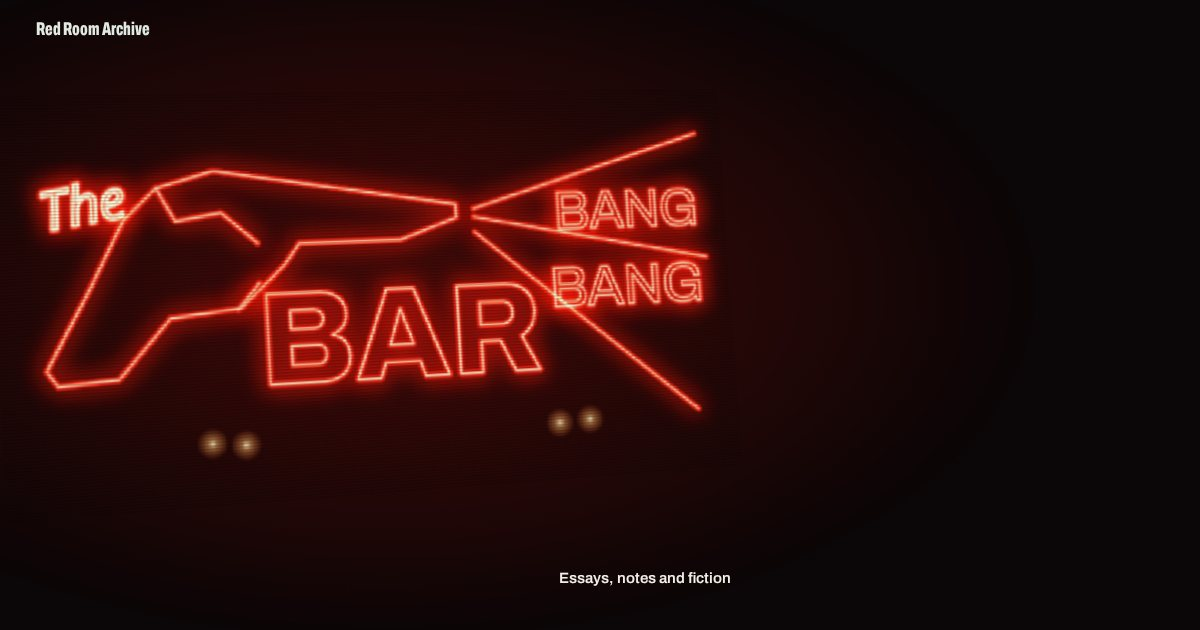
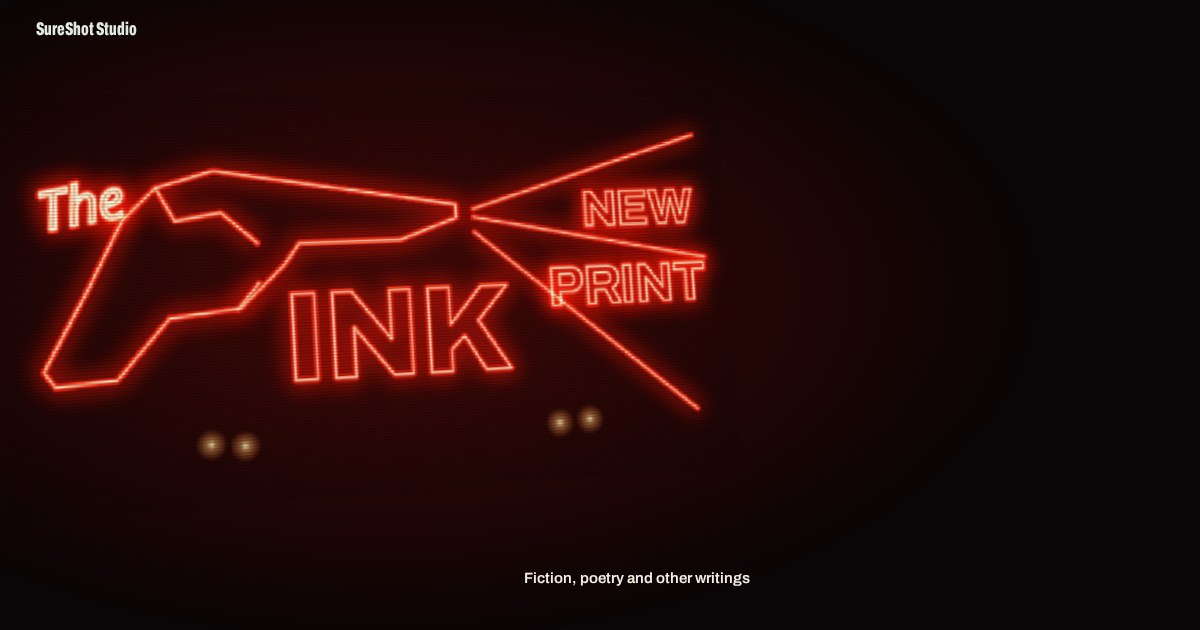
首页招牌改为 The INK / NEW / PRINT，招牌右侧新增新书付印·预购告示
- neon.ts：BAR → INK，两个 BANG → NEW / PRINT（位置、字号按方案 A 设计稿；手枪轮廓、射线、灯泡与闪烁节奏不变）
- site.ts announce（中英文）→ getHome → HomeView：招牌右侧小告示（宽屏右 3 列，<1024px 落到招牌下方），链接写信到站点邮箱（主题“预购小说集”/“Pre-order”），无邮箱时链到“更多”；title 为空即隐藏
- 告示随开场动画画出红竖线、逐行亮出；红点像招牌一样偶尔闪一下，减少动态效果时静止
- 分享卡 og/card.jpg 换成新招牌截图（原图仍是 BAR/BANG 与旧站名）
- UI 测试：告示在首屏、不压信息栏和导航、链接为带主题的 mailto；无 JS 时仍可见

diff --git a/src/ui/styles/home.css b/src/ui/styles/home.css
@@ -26,6 +26,28 @@
 .meta span { min-width: 0; overflow-wrap: anywhere; }
 .meta span:last-child { flex-shrink: 0; }
 
+/* 首屏告示：招牌右侧的一块小牌子（新书付印、接受预购）。细红竖线 + 小字标签 + 一句粗体 +
+   一盏常亮的红灯，和招牌一样偶尔闪一下。宽屏站在右 3 列，窄屏落到招牌下方。 */
+#home { grid-template-rows: 1fr auto; }
+.notice { grid-column: 10 / 13; grid-row: 1; align-self: end; position: relative; z-index: 6; min-width: 0;
+  margin-bottom: clamp(48px, 23svh, 240px); padding: 2px 0 4px 20px; }
+.notice::before { content: ""; position: absolute; left: 0; top: 0; bottom: 0; width: 1px; background: rgba(255, 58, 38, .55); transform: scaleY(var(--rule, 1)); transform-origin: top; }
+.notice-k { font-size: 11px; font-weight: 600; letter-spacing: .08em; text-transform: uppercase; opacity: .55; }
+.notice-t { margin-top: 10px; font-size: clamp(1.2rem, 1.55vw, 1.6rem); font-weight: 700; line-height: 1.3; text-wrap: balance; }
+.notice-a { display: inline-flex; align-items: baseline; gap: .55em; margin-top: 14px; font-size: 13px; font-weight: 600; line-height: 1.4; opacity: .86; transition: opacity .3s, color .3s; }
+.notice-a .dot { flex: none; align-self: center; width: 6px; height: 6px; border-radius: 50%; background: #ff3a26;
+  box-shadow: 0 0 6px rgba(255, 40, 20, .95), 0 0 14px rgba(255, 40, 20, .5); animation: notice-hum 5.2s steps(1, end) infinite; }
+.notice-l { position: relative; }
+.notice-l::after { content: ""; position: absolute; left: 0; right: 0; bottom: -2px; height: 1px; background: currentColor; transform: scaleX(0); transform-origin: left; transition: transform .5s var(--ease); }
+.notice-a .arr { transition: transform .45s var(--ease); }
+.notice-a:hover, .notice-a:focus-visible { opacity: 1; color: var(--accent-soft); }
+.notice-a:hover .notice-l::after, .notice-a:focus-visible .notice-l::after { transform: scaleX(1); }
+.notice-a:hover .arr, .notice-a:focus-visible .arr { transform: translateX(4px); }
+@keyframes notice-hum { 0%, 84%, 89%, 100% { opacity: 1; } 86% { opacity: .2; } 91% { opacity: .4; } }
+@media (max-width: 1023px) { .notice { grid-column: 1 / 8; margin-bottom: clamp(28px, 6svh, 56px); } }
+@media (max-width: 720px) { .notice { grid-column: 1 / 13; margin-bottom: clamp(28px, 11svh, 110px); } }
+@media (prefers-reduced-motion: reduce) { .notice-a .dot { animation: none; } }
+
 /* 引言：sticky 舞台，滚动时逐词“点亮”，与招牌退场衔接 */
 .intro { position: relative; height: 220svh; }
 .intro .stage { position: sticky; top: 0; height: 100svh; display: grid; grid-template-columns: repeat(12, minmax(0, 1fr)); grid-template-rows: 1fr auto; column-gap: 16px;

diff --git a/src/ui/scripts/site/neon.ts b/src/ui/scripts/site/neon.ts
@@ -16,10 +16,11 @@ const defs = [
     poly(c, [[498,112],[215,66],[150,84],[112,120],[70,200],[22,285],[34,302],[100,298],[160,232],[240,224],[292,176],[310,152],[430,152],[498,128]], true);
     poly(c, [[150,84],[170,122],[222,114],[262,150]]); poly(c, [[236,226],[262,196]]); } },
   { delay: .45, rate: 1, draw: (c: Ctx) => { c.save(); c.translate(26, 130); c.rotate(-.17); c.font = 'italic 700 60px "Snell Roundhand","Brush Script MT","Segoe Script",cursive'; c.strokeText('The', 0, 0); c.restore(); } },
-  { delay: .9, rate: .7, draw: (c: Ctx) => { c.font = F(800, 150); c.strokeText('BAR', 258, 312); } },
+  { delay: .9, rate: .7, draw: (c: Ctx) => { c.font = F(800, 144); c.strokeText('INK', 288, 310); } },
   { delay: 1.45, rate: 1, draw: (c: Ctx) => { poly(c, [[520,118],[806,34]]); poly(c, [[520,128],[812,186]]); poly(c, [[520,146],[790,372]]); } },
-  { delay: 1.9, rate: 1.6, draw: (c: Ctx) => { c.font = F(400, 64); c.textAlign = 'right'; c.strokeText('BANG', 806, 146); } },
-  { delay: 2.3, rate: 2.4, draw: (c: Ctx) => { c.font = F(400, 68); c.textAlign = 'right'; c.strokeText('BANG', 806, 240); } },
+  // NEW / PRINT: the two short words light last and flicker the most, like a sign that has just been rewired.
+  { delay: 1.9, rate: 1.6, draw: (c: Ctx) => { c.font = F(700, 60); c.textAlign = 'right'; c.strokeText('NEW', 800, 142); } },
+  { delay: 2.3, rate: 2.4, draw: (c: Ctx) => { c.font = F(700, 66); c.textAlign = 'right'; c.strokeText('PRINT', 812, 238); } },
 ];
 const hash = (n: number) => { const x = Math.sin(n * 127.1) * 43758.5453; return x - Math.floor(x); };
 
@@ -56,7 +57,7 @@ export function initNeon(cv: HTMLCanvasElement) {
       c.fillStyle = g; c.beginPath(); c.arc(x, y, 18, 0, 7); c.fill();
     });
   };
-  Promise.all([document.fonts.load(F(800, 150)), document.fonts.load(F(400, 64))]).catch(() => {}).finally(init);
+  Promise.all([document.fonts.load(F(800, 150)), document.fonts.load(F(700, 64))]).catch(() => {}).finally(init);
 
   const level = (g: any, t: number) => {
     const e = t - t0 - g.delay;

diff --git a/src/content/site.ts b/src/content/site.ts
@@ -37,6 +37,12 @@ export interface SiteCopy {
   facts: { key: string; value: string }[];
   /** Lead paragraph of the /articles index. */
   articlesIntro: string;
+  /**
+   * Small notice beside the neon sign on the first screen of the homepage
+   * (`title: ''` hides it). `action` links to the site email with `subject`
+   * as the email subject, or to /more when no email is set.
+   */
+  announce: { kicker: string; title: string; action: string; subject: string };
 }
 
 export const site: SiteIdentity = {
@@ -56,6 +62,7 @@ export const copy: Record<Locale, SiteCopy> = {
     tagline: 'Fiction, poetry and other writings',
     facts: [],
     articlesIntro: 'Everything published from the notebook, newest first.',
+    announce: { kicker: 'Forthcoming / New print', title: 'A book of fiction is going to print.', action: 'Pre-orders open — write to reserve a copy', subject: 'Pre-order' },
   },
   'zh-CN': {
     about: '写作就是艺术家为了自己的个性和荣誉跟大众进行的一场战斗。——维托尔德·贡布罗维奇',
@@ -63,6 +70,7 @@ export const copy: Record<Locale, SiteCopy> = {
     tagline: '小说、诗歌以及其他',
     facts: [],
     articlesIntro: '笔记本里发布的全部文章，按时间由新到旧排列。',
+    announce: { kicker: '即将付印 / NEW PRINT', title: '小说集，即将付印。', action: '接受预购，来信预留一册', subject: '预购小说集' },
   },
 };
 

diff --git a/src/ui/scripts/site/home.ts b/src/ui/scripts/site/home.ts
@@ -182,6 +182,9 @@ intro.to(n, { v: 100, duration: 2.2, ease: 'power2.inOut', onUpdate: () => (coun
   .add(() => lenis?.start(), '<1.2')
   .from('.bar', { autoAlpha: 0, yPercent: -100, duration: 1, ease: 'expo.out' }, '<1.8')
   .from('.meta span', { autoAlpha: 0, y: 16, stagger: 0.1, duration: 1, ease: 'expo.out' }, '<0.2');
+// 告示：红竖线先从上往下画出，三行字再依次亮出
+if (document.querySelector('.notice')) intro.fromTo('.notice', { '--rule': 0 }, { '--rule': 1, duration: 1.2, ease: 'expo.out' }, '<0.1')
+  .from('.notice > *', { autoAlpha: 0, x: 14, stagger: 0.12, duration: 1.1, ease: 'expo.out' }, '<0.2');
 document.fonts.ready.then(() => {
   if (reduce || resumeY !== null) { intro.progress(1); neon.ignite(); } else intro.play();
   if (resumeY !== null) requestAnimationFrame(() => {

diff --git a/src/server/queries.ts b/src/server/queries.ts
@@ -57,6 +57,8 @@ export interface HomeData {
   total: number;
   /** Statue model URL for the WebGL scene (uploaded or bundled). */
   model: string;
+  /** Notice beside the neon sign (content/site.ts `announce`; empty title = hidden). */
+  announce: { kicker: string; title: string; action: string; subject: string };
 }
 
 const HOME_ARTICLE_LIMIT = 10;
@@ -71,6 +73,7 @@ export async function getHome(locale: Locale = DEFAULT_LOCALE): Promise<HomeData
     topics: topicCounts(all, locale),
     total: all.length,
     model: statueModelUrl(),
+    announce: copy[locale].announce,
   };
 }
 
